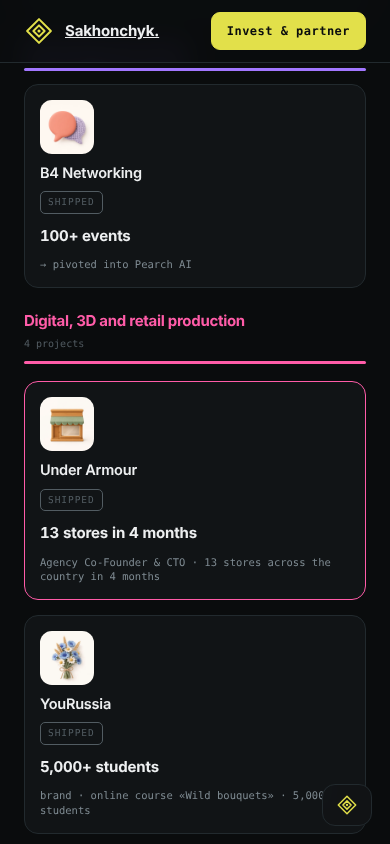
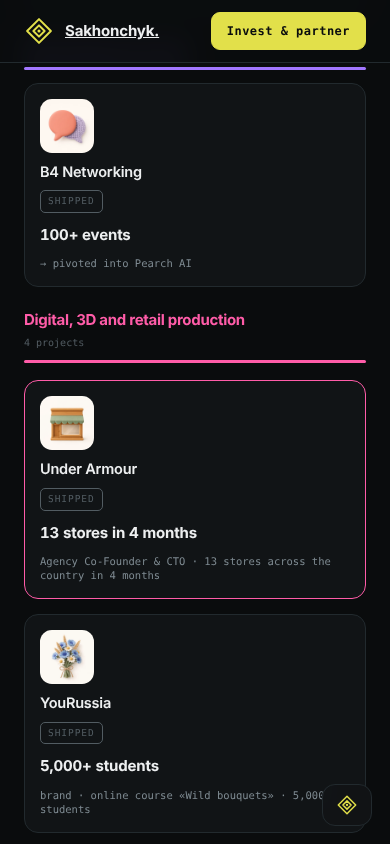
Final: evaluator pass. Hero names Yury's domains, Pearch says data science and Partner Success, satellite MVP marked archived, bank partner unnamed until confirmed, Emozu audience as on the research site
Claude-Session: https://claude.ai/code/session_016tAspyqXGahAUKR2C7K87T

diff --git a/index.html b/index.html
@@ -511,7 +511,7 @@ footer .wrap{display:flex;justify-content:space-between;align-items:center;
     <a class="ct" href="https://github.com/JerrySahon" target="_blank" rel="noopener">
       <b>GitHub</b><span>JerrySahon</span></a>
     <a class="ct" href="https://pearch.ai" target="_blank" rel="noopener">
-      <b>Pearch.AI</b><span>the live product</span></a>
+      <b>Pearch.AI</b><span>the product I co-founded</span></a>
   </div>
   <div class="cal" id="cal"><div class="calh"><h3>Book a 30-minute call</h3><span id="caltz"></span></div><div class="days" id="days"></div><div class="slots" id="slots"></div><div class="calok" id="calok"></div></div>
 </div></section>
@@ -533,7 +533,7 @@ var C={
  name:"Yury Sakhonchyk", mark:"Sakhonchyk.",
  role:"Founder · product · vibe-coding",
  city:"Yerevan, Armenia",
- thesis:"I take products from zero to revenue. Pearch.AI: $1M+ raised, 150+ B2B clients in 15 countries. Padel Club OS runs Armenia's largest padel club. Fourteen years across engineering, retail, digital production and AI.",
+ thesis:"I take products from zero to revenue. Pearch.AI: $1M+ raised, 150+ B2B clients in 15 countries. Padel Club OS runs Armenia's largest padel club. Before that: HVAC engineering, BTL and retail, XR and EdTech, social networks. Now: people-tech data science, hardware health tech and business automation with AI.",
  turn:"I used to manage people. Now I lead people who run agents.",
  /* доказательства — только из реальных цифр портфеля */
  chips:[{k:"16",u:"projects"},{k:"6",u:"industries"},{k:"$1M+",u:"raised"},
@@ -550,8 +550,8 @@ var C={
         {n:"LinkedIn Recruiter",p:900,r:"last",w:"the industry standard",cool:1}]},
  groups:[
   {g:"AI: people search and memory",k:"ai",items:[
-   {n:"Pearch.AI",top:1,why:"inspired by a challenge",st:"live",tag:"finds people from a plain-language description · API + MCP",
-    p:"Founder. An engine that finds the right person from a plain-language description instead of filters. Shipped as an API and an MCP server, so somebody else's ATS suddenly knows how to search people.",
+   {n:"Pearch.AI",top:1,why:"inspired by a challenge",st:"live",tag:"people search from a plain-language description · data science · API + MCP",
+    p:"Co-founder. I ran Partner Success and worked inside the data science: the benchmark paper, the metrics, the API docs format. The engine finds the right person from a plain-language description instead of filters. Shipped as an API and an MCP server, so somebody else's ATS suddenly knows how to search people.",
     e:["$1M+ raised","15 countries","150+ B2B clients","six-figure monthly revenue"],
     img:"pearch",link:"pearch.ai",
     sub:[{n:"PSA · Partner Success panel",p:"Vibe-coded partner development panel: touch stats, enrichment, design-partner reports."},
@@ -570,7 +570,7 @@ var C={
   {g:"Software for sports clubs",k:"sport",items:[
    {n:"Padel Club OS",top:2,why:"inspired by a hobby",link:"yury.digital/padel_club_OS",st:"live",tag:"runs Armenia's largest padel club",
     p:"The operating system of a padel club: a site with CRM and intake, a Telegram bot with admins wired in, court-load tracking, a content plan driven by that load, and a corporate offer that tracks who opened it.",
-    e:["events up to 200 guests","biggest club in Armenia","Inecobank · Red Bull"],img:"courts",
+    e:["events up to 200 guests","biggest club in Armenia","Red Bull · a top Armenian bank"],img:"courts",
     sub:[{n:"Media kit",p:"Work in progress."},
          {n:"Ad placements",p:"A list of spots and ideas. «Monthly rotating towel sponsors» is still at the idea stage."}]}]},
   {g:"Networking and events",k:"net",items:[
@@ -610,7 +610,7 @@ var C={
     p:"A product-owner agent that manages me: ranks projects by impact and cost, runs scheduled tasks, swaps my phone wallpaper to match the focus, and shows me information in a form built around how my attention works.",
     e:["10 active projects","runs every day"]},
    {n:"Emozu",top:3,why:"inspired by a personal story",st:"raise",tag:"warns a parent minutes before a child's meltdown",
-    p:"A device for children that warns about a meltdown early, early enough for a parent to act. Roadmap: a paper in nine months.",
+    p:"A soft band for children, autistic kids first, that warns a parent minutes before a meltdown: early enough to act. Pre-seed, raising now. Roadmap: a paper in nine months.",
     e:["3–10 min warning window","the window published studies already predict","nothing a family can buy today","pre-seed · raising now"],gate:"deep into this case only through the form and the quiz"},
    {n:"Nevod",st:"live",tag:"used every single day",
     p:"It parses my screenshot feed and turns findings into rules I then work by. A working product I use every day.",
@@ -618,9 +618,9 @@ var C={
    {n:"English Tutor",st:"wip",tag:"open source + paid support",
     p:"An open repository for language learning with a paid support package on top.",
     e:["interface and curriculum"]},
-   {n:"Satellite imagery",st:"wip",tag:"built for the OpenAI hackathon",
-    p:"An MVP on satellite data, built for the OpenAI hackathon and submitted there. Now looking for who actually needs it before building further.",
-    e:["submitted to the OpenAI hackathon","looking for the first user"],need:"hackathon name + a shot"},
+   {n:"Satellite imagery",st:"done",tag:"built for the OpenAI hackathon",
+    p:"An MVP on satellite data, built for the OpenAI hackathon and submitted there. Archived after the hackathon: my first step toward space tech.",
+    e:["submitted to the OpenAI hackathon","archived · a step toward space tech"],need:"hackathon name + a shot"},
    {n:"Frontier map",st:"wip",tag:"a future product",
     p:"It decomposes a task and hunts the leading solution for each part: GitHub open source → products → and if there are none or they are absurdly priced, how to build it yourself and which services you would need. Recursively, until the ideal.",
     e:["36 parts mapped · 19 still unsolved"]},
@@ -888,8 +888,8 @@ var TOP={
   return '<p class="lead1">Runs on the biggest padel club in Armenia.</p>'+
    '<div class="duo">'+fig("img/padel-site.webp","padelbattle.am · the club site it runs")+fig("img/padel-mobile.webp","on a phone")+'</div>'+
    tfs([["200","guests at the biggest events"],
-        ["Red Bull","and Inecobank, a top Armenian bank, as partners"],
-        ["only","indoor padel courts in Armenia"]])+
+        ["Red Bull","and a top Armenian bank as partners"],
+        ["5","parts in one system: site with CRM, Telegram bot, court load, content plan, corporate offer"]])+
    '<p>'+esc(it.p)+'</p>'+sec("How the OS is wired",OS())+
    sec("Where it meets","<p>Vibe-coding meets real estate: one person\u2019s software grows a rooftop venue\u2019s business and runs every guest touchpoint, from the first message to the event.</p>")+
    subHTML(it.sub)+
@@ -931,7 +931,7 @@ var DRV=[
  {slug:"emozu",t:"Hardware health tech for kids",big:"3\u201310 min",u:"of warning before a child\u2019s meltdown",
   s:"Emozu: built on published research, raising pre-seed now."},
  {slug:"padel",t:"Vibe-coding \u00d7 real estate",big:"200",u:"guests at the club\u2019s biggest events",
-  s:"Padel Club OS grows a venue\u2019s business and every guest touchpoint. Partners: Inecobank, Red Bull."},
+  s:"Padel Club OS grows a venue\u2019s business and every guest touchpoint. Partners: Red Bull and a top Armenian bank."},
  {slug:"sat",t:"Space tech",big:"Space",u:"tech, the dream I\u2019m building toward",
   s:"Satellite imagery: built for the OpenAI hackathon and submitted there."}];
 var LOGOS='<span class="logos"><img src="img/logo/underarmour.svg" alt="Under Armour"><span class="dw">Disney</span>'+

diff --git a/p/pearch.html b/p/pearch.html
@@ -3,10 +3,10 @@
 <meta charset="utf-8">
 <meta name="viewport" content="width=device-width,initial-scale=1">
 <title>Pearch.AI · Yury Sakhonchyk</title>
-<meta name="description" content="Pearch.AI · finds people from a plain-language description · API + MCP">
+<meta name="description" content="Pearch.AI · people search from a plain-language description · data science · API + MCP">
 <link rel="canonical" href="https://yury.digital/p/pearch.html">
 <meta property="og:title" content="Pearch.AI · Yury Sakhonchyk">
-<meta property="og:description" content="finds people from a plain-language description · API + MCP">
+<meta property="og:description" content="people search from a plain-language description · data science · API + MCP">
 <meta property="og:image" content="https://yury.digital/img/ico/pearch.webp">
 <meta name="theme-color" content="#0A0C0D">
 <link rel="icon" href="../img/ico/pearch.webp">
@@ -58,9 +58,9 @@ footer a{color:var(--mu);text-decoration:none}footer a:hover{color:var(--tx)}</s
 <main>
 <div class="hd"><span class="ico"><img src="../img/ico/pearch.webp" alt=""></span>
 <div><div class="eb">inspired by a challenge</div><h1>Pearch.AI</h1></div></div>
-<p class="tag">finds people from a plain-language description · API + MCP</p>
+<p class="tag">people search from a plain-language description · data science · API + MCP</p>
 <span class="st live">live</span>
-<p class="lead">Founder. An engine that finds the right person from a plain-language description instead of filters. Shipped as an API and an MCP server, so somebody else's ATS suddenly knows how to search people.</p>
+<p class="lead">Co-founder. I ran Partner Success and worked inside the data science: the benchmark paper, the metrics, the API docs format. The engine finds the right person from a plain-language description instead of filters. Shipped as an API and an MCP server, so somebody else's ATS suddenly knows how to search people.</p>
 <ul class="ev"><li>$1M+ raised</li><li>15 countries</li><li>150+ B2B clients</li><li>six-figure monthly revenue</li></ul>
 <figure><img src="../img/pearch-site.jpg" alt="pearch.ai · the homepage" loading="lazy"><figcaption>pearch.ai · the homepage</figcaption></figure>
 <h2>Inside the project</h2><ul class="subs"><li><b>PSA · Partner Success panel</b><span>Vibe-coded partner development panel: touch stats, enrichment, design-partner reports.</span></li><li><b>The paper</b><span>arXiv:2504.02463: a blind comparison of four sourcing engines. I am one of the authors.</span><figure><img src="../img/paper.jpg" alt="arXiv:2504.02463 · the preprint page" loading="lazy"><figcaption>arXiv:2504.02463 · the preprint page</figcaption></figure></li><li><b>Cold outreach for sales</b><span>The outbound loop for the sales side.</span></li><li><b>Site articles</b><span>Content that brings developers to the API.</span></li><li><b>GDPR compliance</b><span>The legal perimeter around a profile index.</span></li><li><b>Onboarding flow</b><span>A partner's path from key to first query.</span></li><li><b>API documentation format</b><span>I own the format of the API docs, so I know the product at a technical level.</span></li></ul>

diff --git a/p/sat.html b/p/sat.html
@@ -59,9 +59,9 @@ footer a{color:var(--mu);text-decoration:none}footer a:hover{color:var(--tx)}</s
 <div class="hd"><span class="ico"><img src="../img/ico/sat.webp" alt=""></span>
 <div><div class="eb">Personal products, vibe-coded</div><h1>Satellite imagery</h1></div></div>
 <p class="tag">built for the OpenAI hackathon</p>
-<span class="st wip">in progress</span>
-<p class="lead">An MVP on satellite data, built for the OpenAI hackathon and submitted there. Now looking for who actually needs it before building further.</p>
-<ul class="ev"><li>submitted to the OpenAI hackathon</li><li>looking for the first user</li></ul>
+<span class="st done">shipped</span>
+<p class="lead">An MVP on satellite data, built for the OpenAI hackathon and submitted there. Archived after the hackathon: my first step toward space tech.</p>
+<ul class="ev"><li>submitted to the OpenAI hackathon</li><li>archived · a step toward space tech</li></ul>
 <figure><img src="../img/groundtruth.webp" alt="GroundTruth · the hackathon build" loading="lazy"><figcaption>GroundTruth · the hackathon build</figcaption></figure>
 
 <p class="out"><a href="https://jerrysahon.github.io/groundtruth/" target="_blank" rel="noopener">GroundTruth · public page ↗</a></p>

diff --git a/p/padel.html b/p/padel.html
@@ -61,7 +61,7 @@ footer a{color:var(--mu);text-decoration:none}footer a:hover{color:var(--tx)}</s
 <p class="tag">runs Armenia's largest padel club</p>
 <span class="st live">live</span>
 <p class="lead">The operating system of a padel club: a site with CRM and intake, a Telegram bot with admins wired in, court-load tracking, a content plan driven by that load, and a corporate offer that tracks who opened it.</p>
-<ul class="ev"><li>events up to 200 guests</li><li>biggest club in Armenia</li><li>Inecobank · Red Bull</li></ul>
+<ul class="ev"><li>events up to 200 guests</li><li>biggest club in Armenia</li><li>Red Bull · a top Armenian bank</li></ul>
 <figure><img src="../img/padel-site.webp" alt="padelbattle.am · the club site it runs" loading="lazy"><figcaption>padelbattle.am · the club site it runs</figcaption></figure>
 <h2>Inside the project</h2><ul class="subs"><li><b>Media kit</b><span>Work in progress.</span></li><li><b>Ad placements</b><span>A list of spots and ideas. «Monthly rotating towel sponsors» is still at the idea stage.</span></li></ul>
 <p class="out"><a href="../padel_club_OS/">Padel Club OS · the full case ↗</a></p>

diff --git a/p/emozu.html b/p/emozu.html
@@ -60,7 +60,7 @@ footer a{color:var(--mu);text-decoration:none}footer a:hover{color:var(--tx)}</s
 <div><div class="eb">inspired by a personal story</div><h1>Emozu</h1></div></div>
 <p class="tag">warns a parent minutes before a child's meltdown</p>
 <span class="st raise">raising</span>
-<p class="lead">A device for children that warns about a meltdown early, early enough for a parent to act. Roadmap: a paper in nine months.</p>
+<p class="lead">A soft band for children, autistic kids first, that warns a parent minutes before a meltdown: early enough to act. Pre-seed, raising now. Roadmap: a paper in nine months.</p>
 <ul class="ev"><li>3–10 min warning window</li><li>the window published studies already predict</li><li>nothing a family can buy today</li><li>pre-seed · raising now</li></ul>
 <figure><img src="../img/emozu-whynow.webp" alt="From the deck: why now" loading="lazy"><figcaption>From the deck: why now</figcaption></figure>
 
